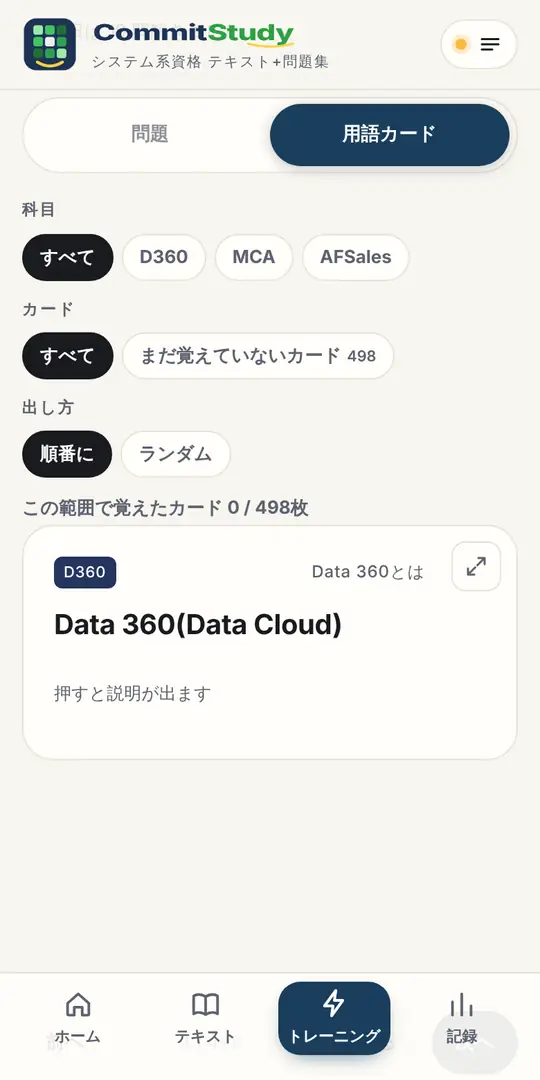
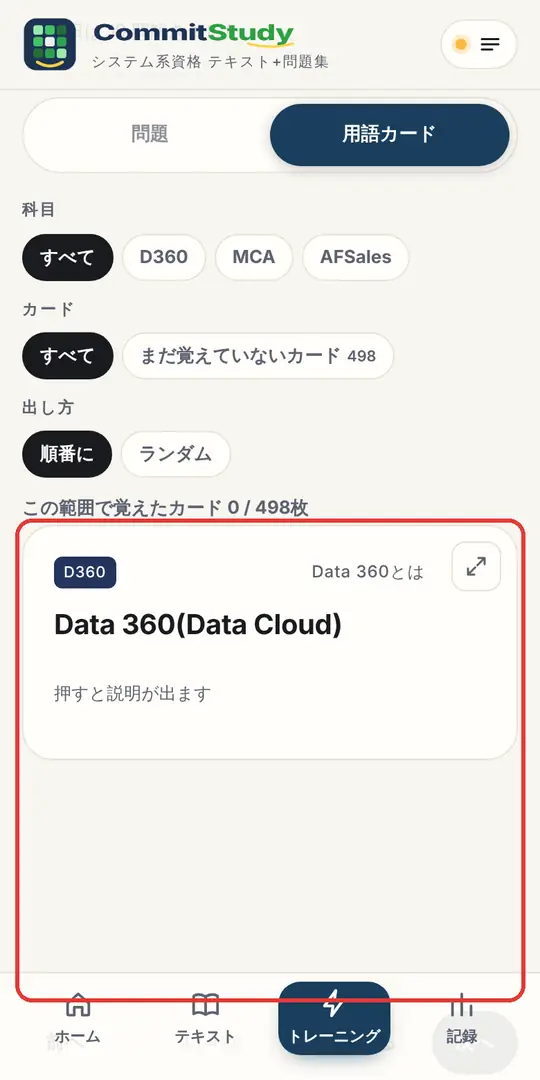
CommitStudy: 使い方ページの画面写真に、説明している箇所の赤枠を入れる
Claude-Session: https://claude.ai/code/session_01Jp4Dyyf8t6QTx62ivKWhuS

Changed region(s): [[0.0296, 0.4583, 0.9778, 0.9472]]

diff --git a/commitstudy/guide/run2.js b/commitstudy/guide/run2.js
@@ -1,0 +1,29 @@
+const open=require('./shoot.js');const O=process.argv[2];
+(async()=>{const {b,p}=await open();
+const RECTS={};
+const shot=async(n,sels=[])=>{await p.waitForTimeout(500);await p.screenshot({path:O+'/'+n+'.png'});
+ RECTS[n]=await p.evaluate((sels)=>sels.map(sel=>{const last=sel.endsWith('|last');if(last)sel=sel.slice(0,-5);const parts=sel.split(' ~~ ');const vis=e=>{const r=e.getBoundingClientRect();return r.width>0&&r.height>0&&r.bottom>0&&r.top<innerHeight};const els=parts.map(q=>{const a=[...document.querySelectorAll(q)].filter(vis);return last?a[a.length-1]:a[0]});if(els.some(e=>!e))return null;
+  const rs=els.map(e=>e.getBoundingClientRect());return {x:Math.min(...rs.map(r=>r.left)),y:Math.min(...rs.map(r=>r.top)),r:Math.max(...rs.map(r=>r.right)),b:Math.max(...rs.map(r=>r.bottom))}}),sels);
+ console.log('shot',n,JSON.stringify(RECTS[n]))};
+await p.addInitScript(()=>{addEventListener('DOMContentLoaded',()=>{const st=document.createElement('style');st.textContent='html{scroll-behavior:auto!important}';document.head.appendChild(st)})});
+await p.go('/');await p.evaluate(()=>scrollTo(0,0));await shot('home',['.tabbar']);
+await p.evaluate(()=>{const h=[...document.querySelectorAll('h2')].find(x=>/きょうの一歩/.test(x.textContent));h&&h.scrollIntoView({block:'start'});scrollBy(0,-80)});await shot('home2',['#bx-letter','#bx-cont']);
+await p.go('/texts/');await p.evaluate(()=>{document.querySelector('#groups').scrollIntoView({block:'start'});scrollBy(0,-80)});await shot('texts',['#t-d360 .acts']);
+await p.go('/d360/');await p.evaluate(()=>localStorage.setItem('sr-d360-view','text'));await p.go('/d360/#f-stream',5500);
+await p.evaluate(()=>{const e=document.getElementById('f-stream');e.scrollIntoView({block:'start'});scrollBy(0,-70)});await shot('text',['#f-stream .co.talk']);
+await p.evaluate(()=>{const f=document.querySelector('#f-stream figure');f.scrollIntoView({block:'center'})});await shot('text_fig',['#f-stream figure','#f-stream .qx-b|last']);
+// マーカーのボタン: 本文の一部を選択
+await p.evaluate(()=>{const li=document.querySelector('#f-stream .co.memo li')||document.querySelector('#f-stream li');li.scrollIntoView({block:'center'});const r=document.createRange();const t=li.firstChild;r.setStart(t,0);r.setEnd(t,Math.min(18,t.length));const s=getSelection();s.removeAllRanges();s.addRange(r);document.dispatchEvent(new Event('selectionchange'));li.dispatchEvent(new MouseEvent('mouseup',{bubbles:true}))});await p.waitForTimeout(600);await shot('text_sel',['.selbar']);
+await p.evaluate(()=>getSelection().removeAllRanges());
+await p.evaluate(()=>{const d=document.querySelector('#f-stream .done-row');d.scrollIntoView({block:'center'})});await shot('text_end',['#f-stream .done-row']);
+await p.go('/d360/#quiz',5500);await p.evaluate(()=>scrollTo(0,120));await shot('quiz',['[data-act="mopt"] ~~ [data-act="check"]']);
+await p.evaluate(()=>{const e=[...document.querySelectorAll('[data-act="mopt"]')].find(x=>x.offsetParent);e.click();const c=[...document.querySelectorAll('[data-act="check"]')].find(x=>x.offsetParent);c.click()});await p.waitForTimeout(700);
+await p.evaluate(()=>{const e=document.querySelector('.banner')||document.querySelector('#qtext');e&&e.scrollIntoView({block:'start'});scrollBy(0,-90)});await shot('quiz_ans',['.exp']);
+await p.go('/practice/');await p.evaluate(()=>{document.querySelector('.tabs').scrollIntoView({block:'start'});scrollBy(0,-70)});await shot('train',['#f-subj ~~ #f-ord']);
+await p.click('#t-g');await p.waitForTimeout(700);await p.evaluate(()=>{document.querySelector('.tabs').scrollIntoView({block:'start'});scrollBy(0,-70)});await shot('cards',['#fc']);
+await p.click('#t-q');await p.waitForTimeout(400);await p.click('#p-q [data-up]');await p.waitForTimeout(600);await shot('train_full',['.tq-act']);
+await p.keyboard.press('Escape');
+await p.go('/record/');await p.evaluate(()=>scrollTo(0,0));await shot('record',['.kpi','#cal']);
+await p.evaluate(()=>{document.querySelector('#subj').closest('.bx').scrollIntoView({block:'start'});scrollBy(0,-70)});await shot('record2',['#subj .r']);
+await p.go('/');await p.evaluate(()=>document.getElementById('menu-btn').click());await p.waitForTimeout(600);await shot('menu',['.who','.dr-s .lk ~~ #sitemap']);
+require('fs').writeFileSync(O+'/rects.json',JSON.stringify(RECTS));console.log(p.errs);await b.close()})();

diff --git a/commitstudy/guide/draw.py b/commitstudy/guide/draw.py
@@ -1,0 +1,14 @@
+"""画面写真に、説明している箇所の赤枠を描く。python3 draw.py <png フォルダ> <出力 webp フォルダ>"""
+import json, os, sys
+from PIL import Image, ImageDraw
+src, dst = sys.argv[1:3]; os.makedirs(dst, exist_ok=True)
+R = json.load(open(os.path.join(src, "rects.json")))
+SC = 2; W, H = 390, 780
+for n, rects in R.items():
+    im = Image.open(os.path.join(src, n + ".png")).convert("RGB"); d = ImageDraw.Draw(im)
+    for r in rects:
+        if not r: continue
+        x0, y0 = max(3, r["x"] - 5), max(3, r["y"] - 5); x1, y1 = min(W - 3, r["r"] + 5), min(H - 3, r["b"] + 5)
+        d.rounded_rectangle([x0 * SC, y0 * SC, x1 * SC, y1 * SC], radius=12 * SC, outline=(229, 57, 53), width=3 * SC)
+    im.resize((540, 1080), Image.LANCZOS).save(os.path.join(dst, n + ".webp"), "WEBP", quality=72, method=6)
+print("ok", len(R))

diff --git a/commitstudy/guide/patch_guide.py b/commitstudy/guide/patch_guide.py
@@ -94,7 +94,7 @@ MARKUP = f"""
   </ul>
  </section>
  <section class="bx gd" id="g-quiz">{H("問題集")}
-  {SHOTS(("quiz", "問題集。選択肢を選んで「答え合わせ」"), ("quiz_ans", "答え合わせのあと。解説・回答履歴・根拠のページ"))}
+  {SHOTS(("quiz", "問題集。選択肢を選んで答え合わせ(選ぶ前は「答えを見る」)"), ("quiz_ans", "答え合わせのあと。解説・回答履歴・根拠のページ"))}
   <ul>
    <li>4択(一部は2つ選ぶ問題)です。答え合わせのあと、解説と「テキストの該当箇所で復習する」が出ます。</li>
    <li>上のメニューの「絞込」で、Chapter・項目・出典(過去問/オリジナルなど)・状態(未回答・要復習・しおり)を選べます。</li>

diff --git a/commitstudy/CLAUDE.md b/commitstudy/CLAUDE.md
@@ -4,4 +4,4 @@
 - 目立つ更新は `patch_news.py` の更新情報にも足す(新しい順に先頭へ)。
 - index.html は `rebuild.sh` で、トレーニング追加前の版(v21)からパッチを順に当てて作り直せる。新しいパッチは rebuild.sh の末尾に足す。
 - 図はスマホ(iPhone)前提。`figs_m/lib.py` で幅340、`figs_m/preview.py` ではみ出し・重なりを確かめる。
-- 使い方ページの画面写真は `guide/run.js`(デモ用の記録を入れて iPhone サイズで撮る)で撮り直せる。画面を変えたら撮り直して `guide/shots/*.webp`(公開先 brand/guide/)を更新する。
+- 使い方ページの画面写真は `guide/run2.js`(デモ用の記録を入れて iPhone サイズで撮り、説明する箇所の位置を rects.json に保存)と `guide/draw.py`(赤枠を描いて webp に)で撮り直せる。画面を変えたら撮り直して `guide/shots/*.webp`(公開先 brand/guide/)を更新する。
